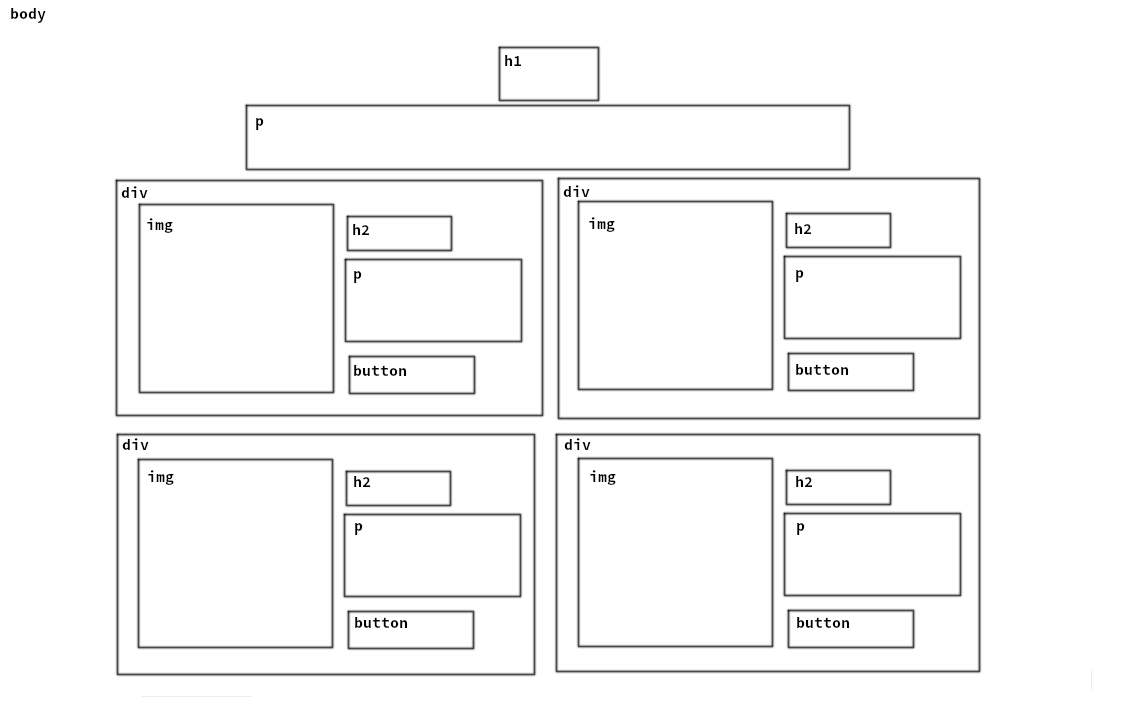
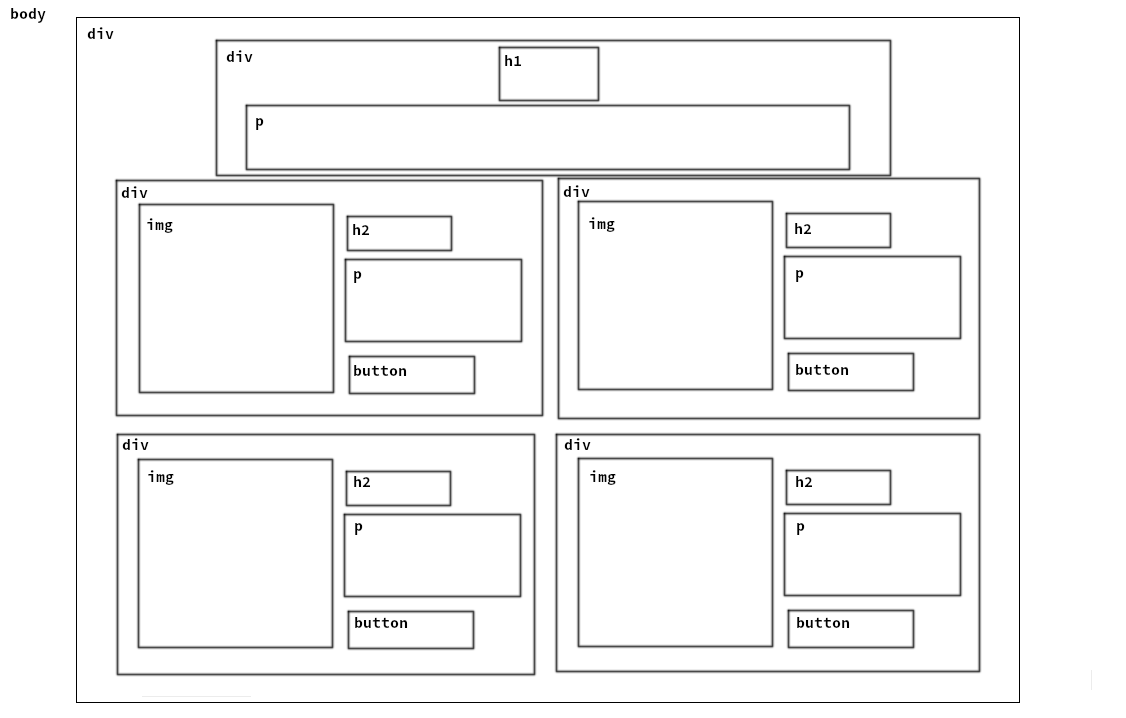
Eindopdracht

diff --git a/HTML/Intro/Eindopdracht/Index.html b/HTML/Intro/Eindopdracht/Index.html
@@ -7,10 +7,10 @@
     <title>Document</title>
 </head>
 <body>
-<h1 align="center">Menu</h1>
-<p align="center">Minim proident irure reprehenderit veniam deserunt deserunt pariatur irure laboris fugiat.<br> Lorem aliqua elit 
-aliquip anim laboris exercitation sit sunt reprehenderit labore sint <br> proident. Magna quis sint minim laboris
-eiusmod anim veniam qui ea elit non.</p>
-
+    <div>
+        <div>
+            <h1>Menu</h1>
+        </div>
+    </div>
 </body>
 </html>
